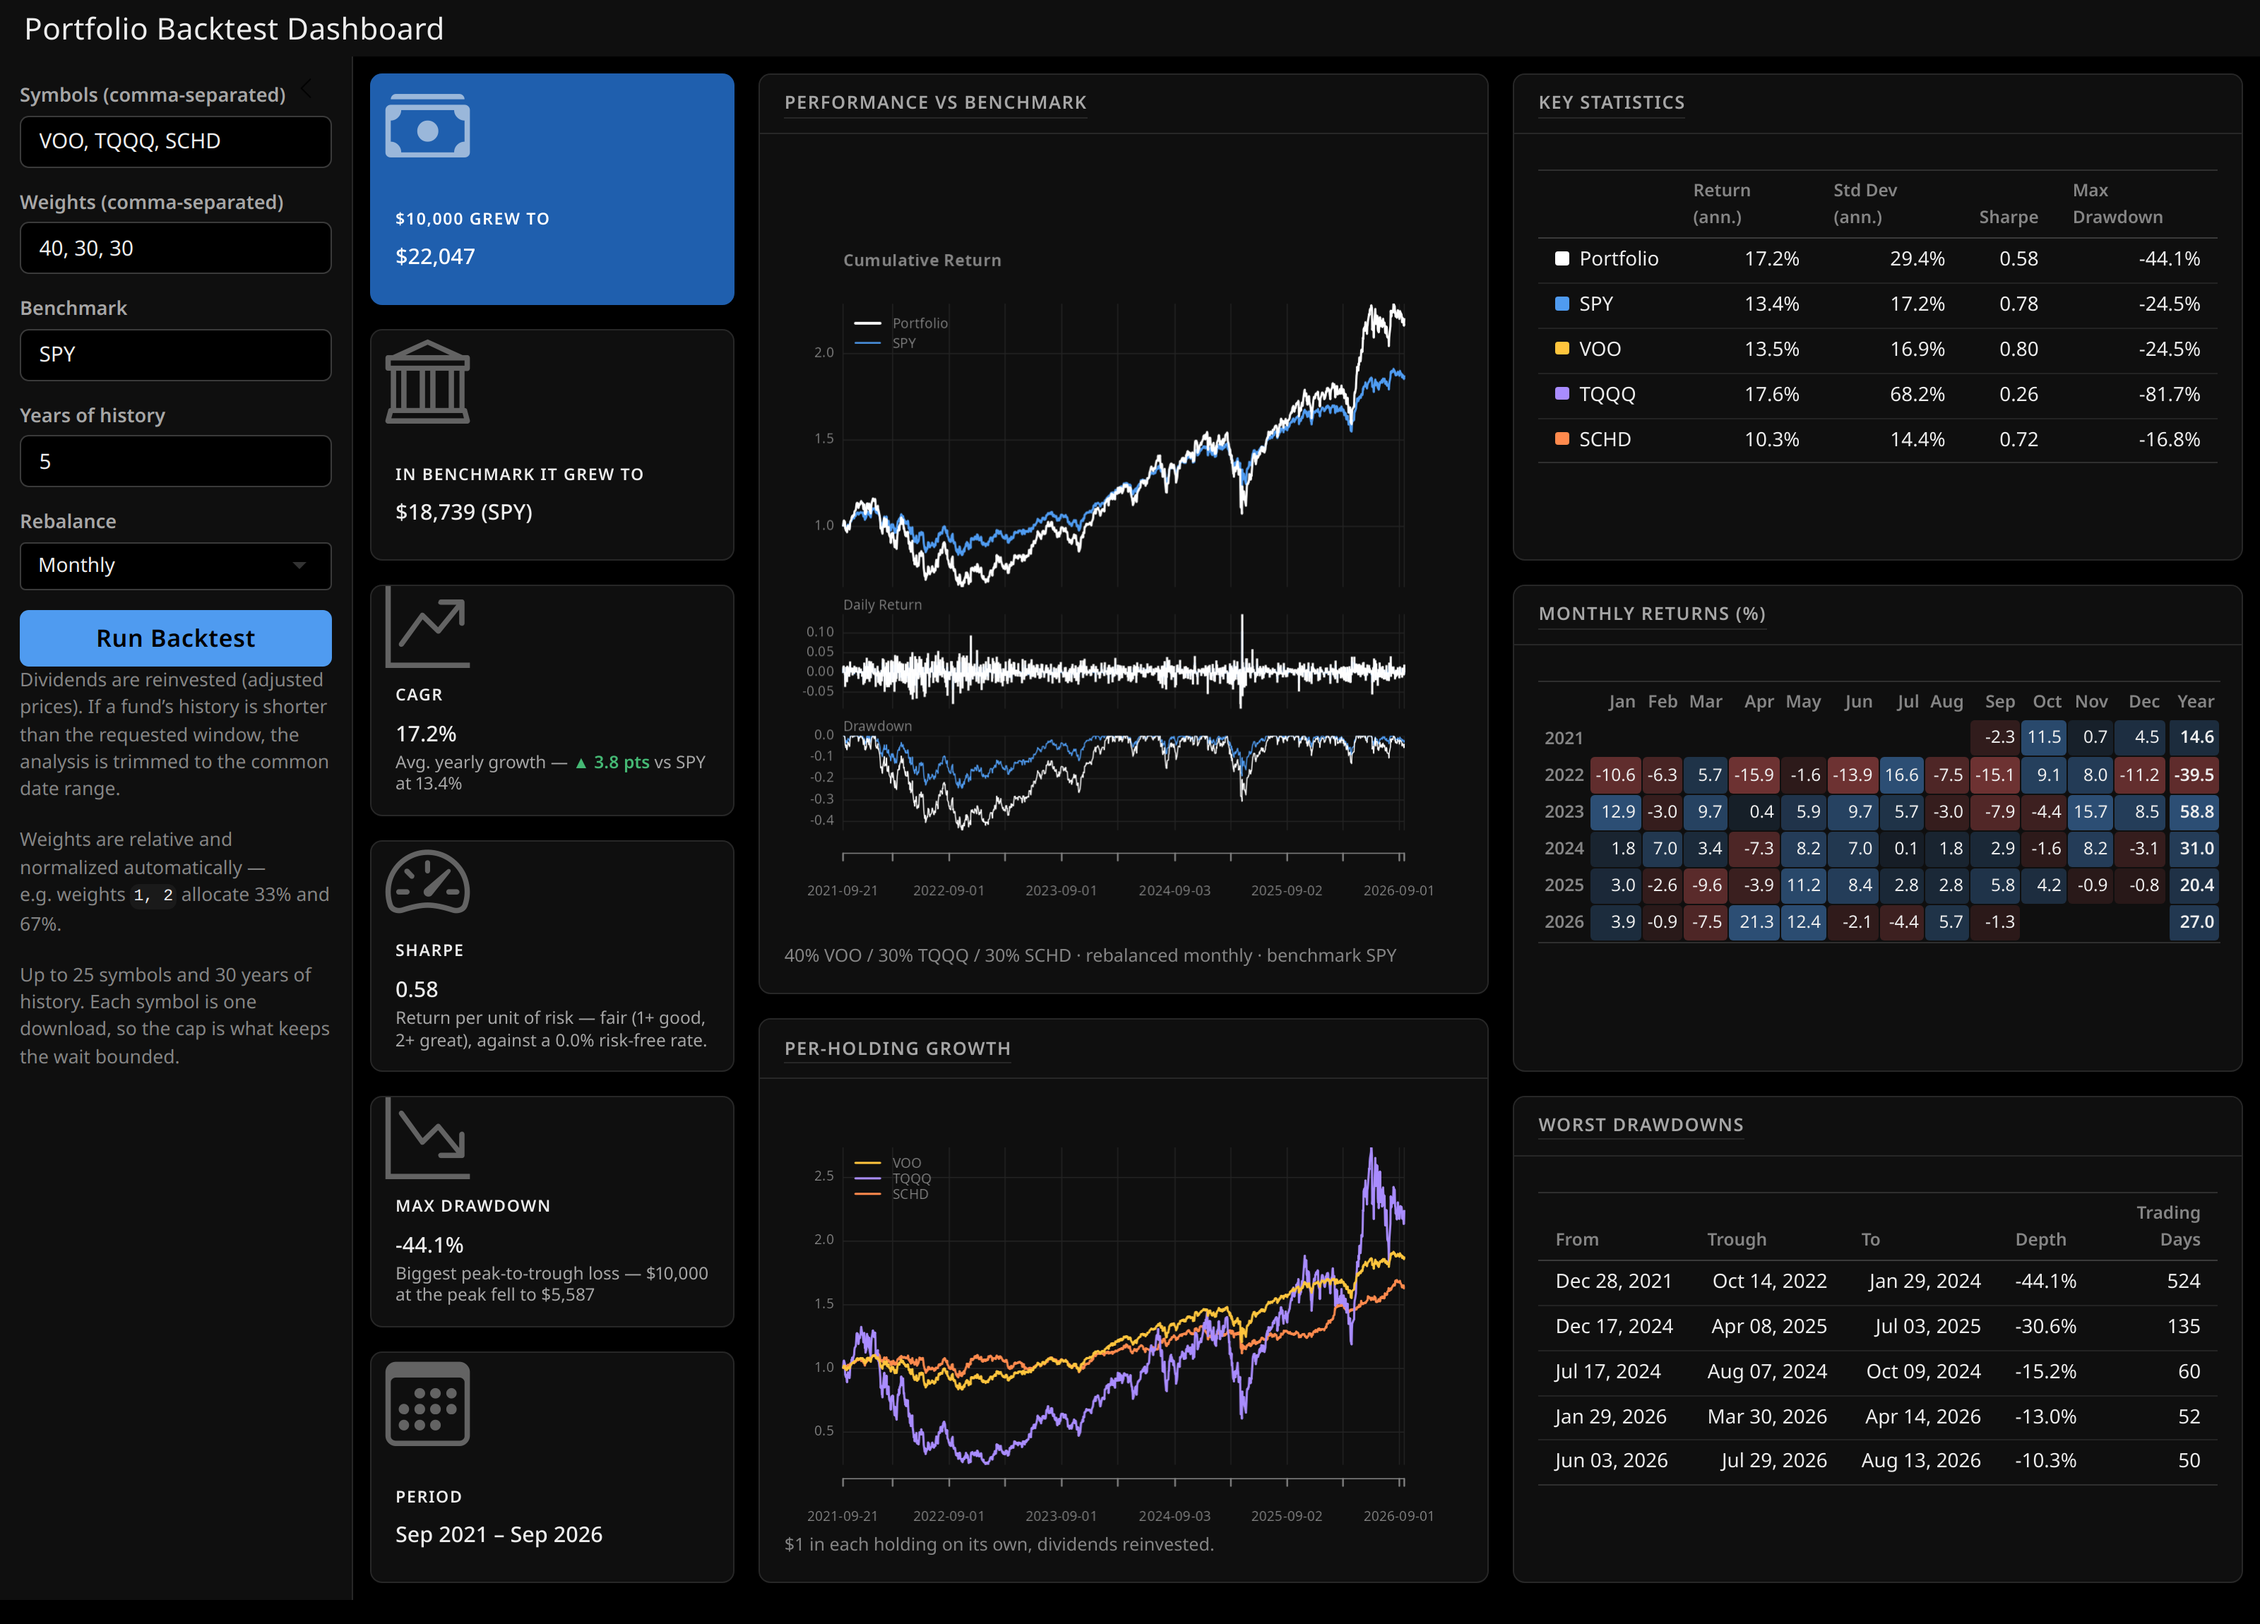
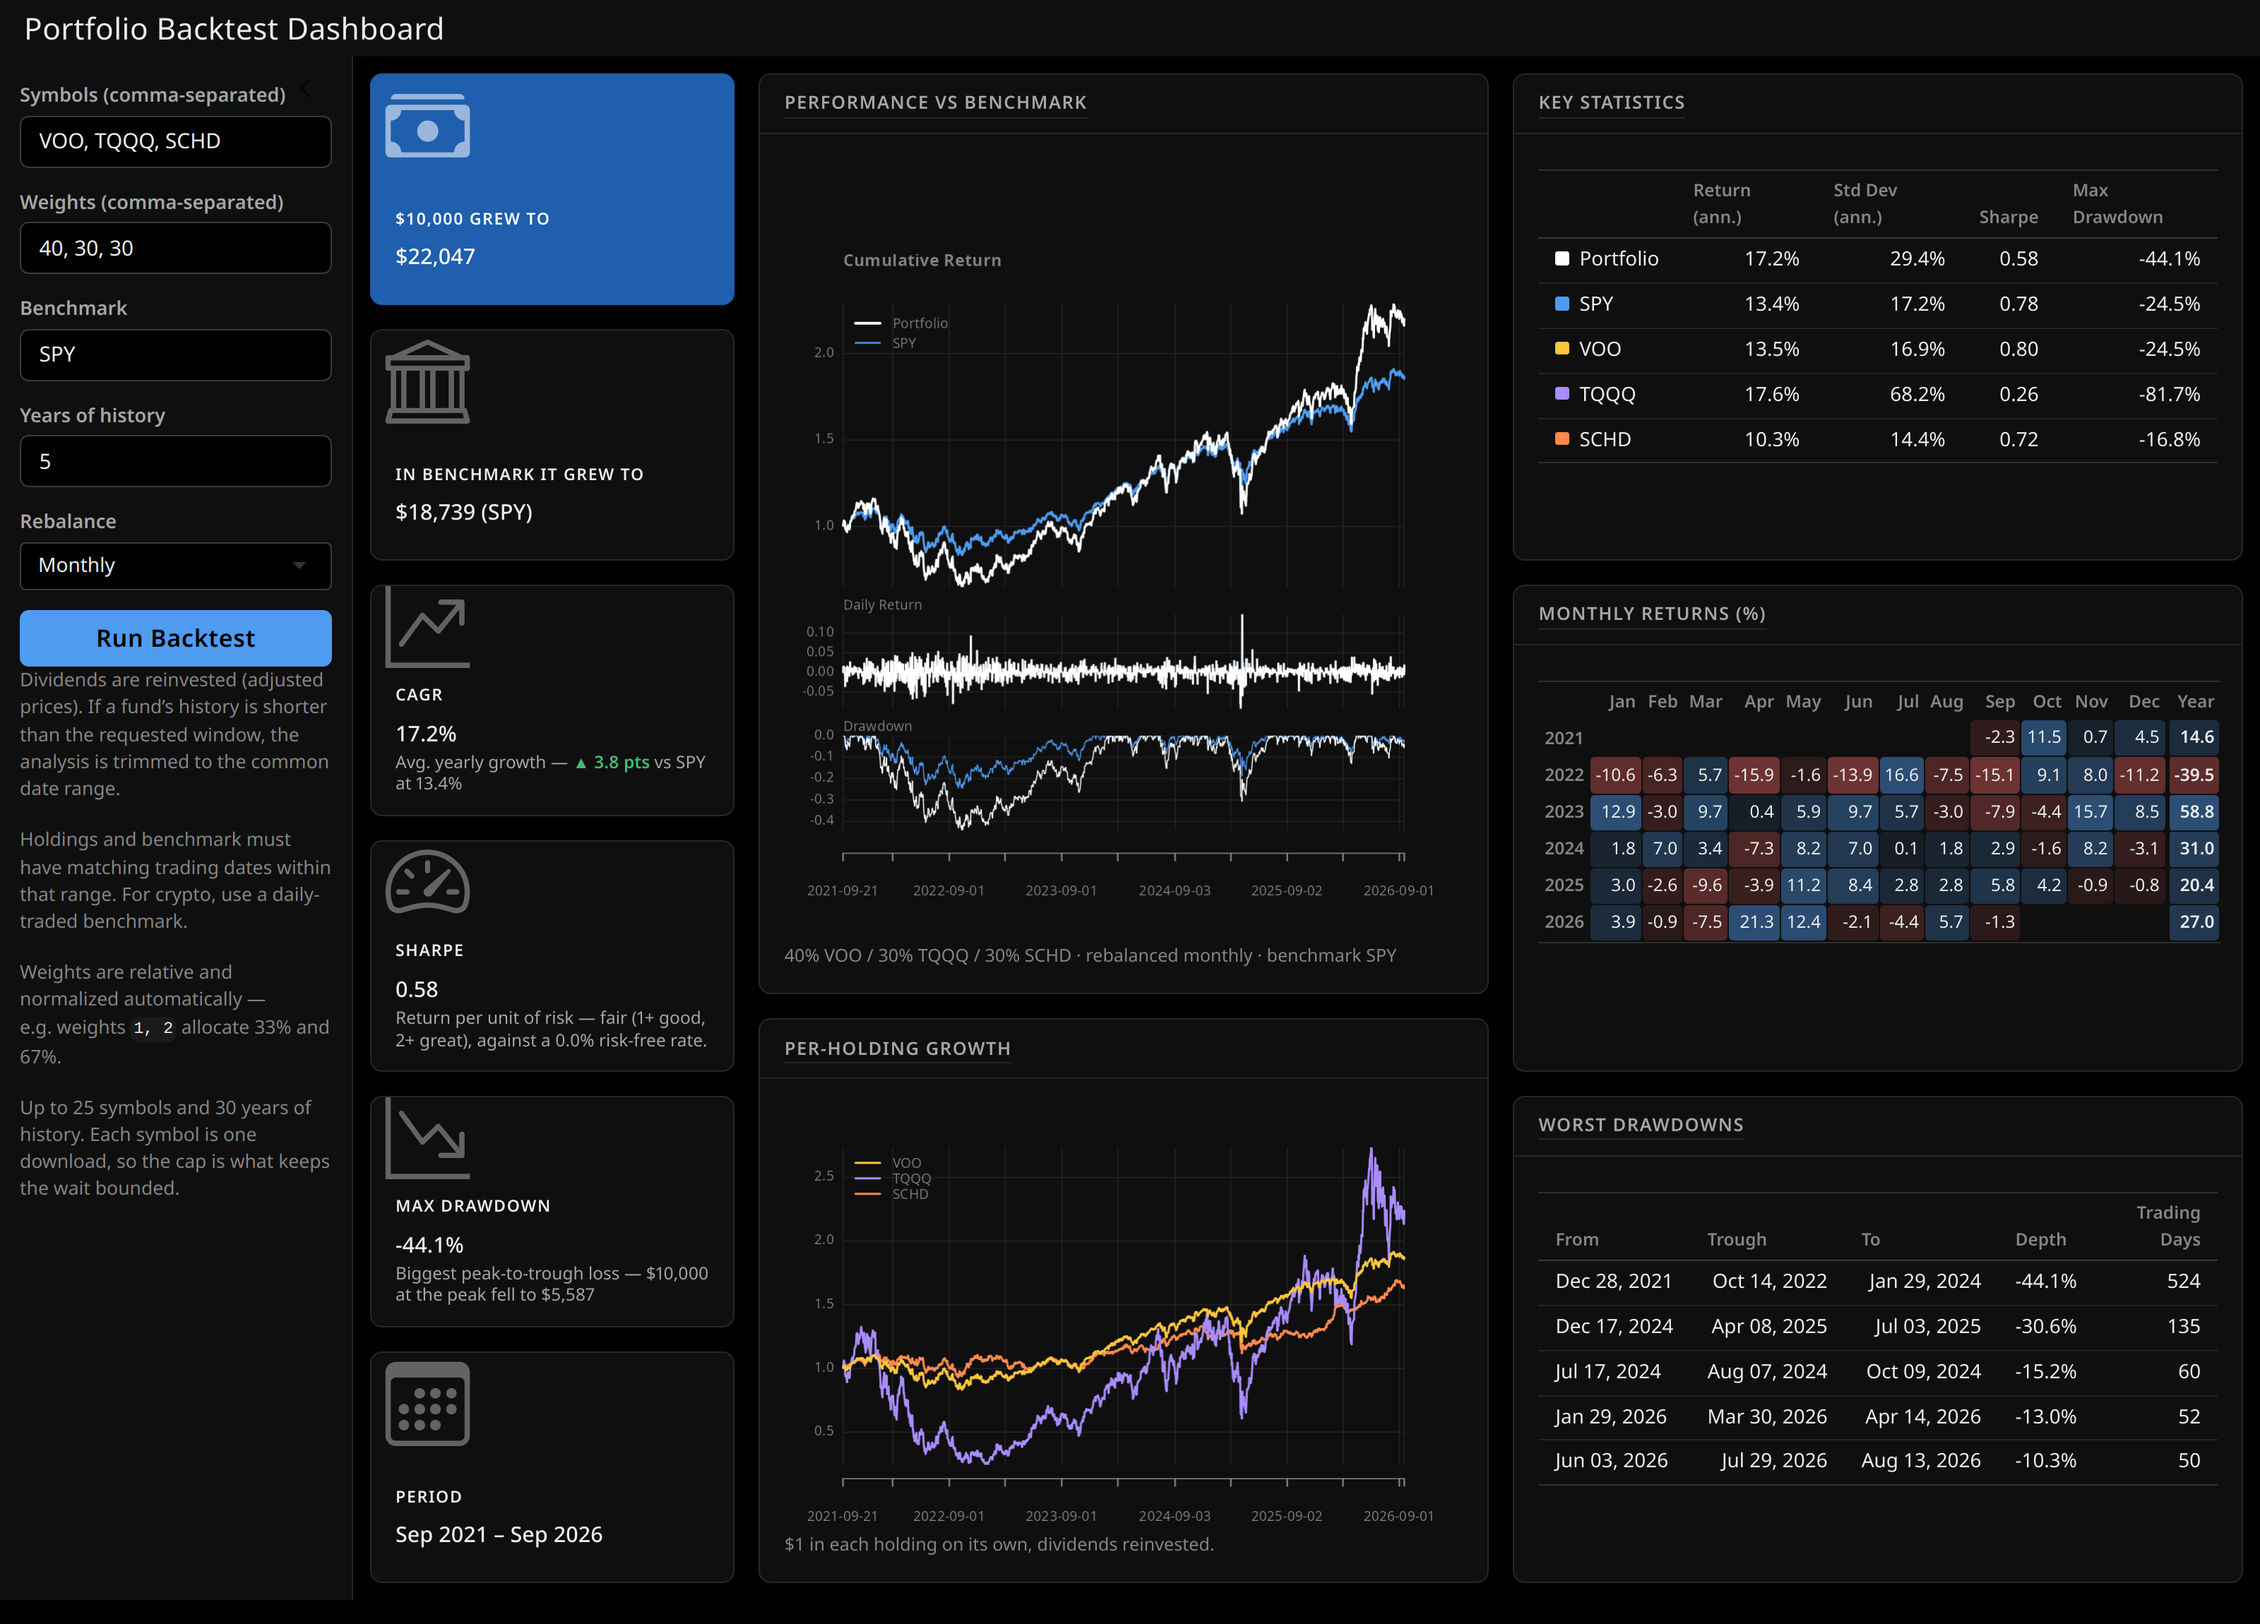
Reject incomplete trading calendars instead of dropping returns

Changed region(s): [[0.0, 0.4939, 0.1562, 0.7409]]

diff --git a/README.md b/README.md
@@ -12,7 +12,10 @@ Yahoo Finance.
   (`^GSPC`), international listings. Up to 25 symbols and 30 years of history
   per run; each symbol costs one sequential download, so the caps are what keep
   the wait bounded. If a fund's history is shorter than the requested window,
-  the analysis is trimmed to the common date range.
+  the analysis is trimmed to the common date range. Holdings and benchmark
+  must have matching trading dates within that range: use a daily-traded
+  benchmark for crypto. Incompatible calendars or missing quotes report an
+  error instead of silently dropping observations and understating risk.
 - **Free-scale weights** — weights are relative and normalized automatically:
   `1, 2` allocates ⅓ / ⅔, `40, 30, 30` works as percentages.
 - **Rebalancing** — monthly, quarterly, yearly, or buy & hold.
